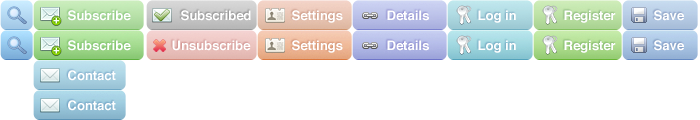
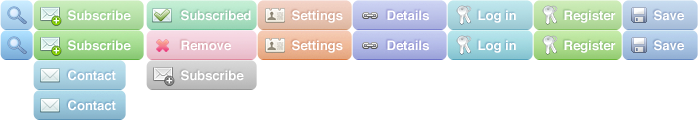
Add alert box JS. Add new unsubscribe button.
git-svn-id: https://stanley.cdf.toronto.edu/svn/csc301-2012-01/Group_E@172 092ab664-fcbf-46e8-8362-05d6c20691bb

Changed region(s): [[0.21, 0.3, 0.39, 0.75], [0.21, 0.025, 0.39, 0.25]]

diff --git a/templates/home.html b/templates/home.html
@@ -15,6 +15,7 @@
         <script src="/js/jquery.tablesorter.min.js" type="text/javascript"></script>
         <script src="/js/jquery.history.js"></script>
         <script src="/js/main.js" type="text/javascript"></script>
+        <script src="/js/alert.js" type="text/javascript"></script>
     </head>
 
     <body>
@@ -37,9 +38,12 @@
                 <form action="/rfp/subscribe" method="post">
                     <!-- keywords get filled out by search script -->
                     <input name="keywords" type="hidden" value="">
-                    <input type="submit" value="" class="button button_subscribe" 
+                    <input type="submit" value="" id="search_subscribe" class="button button_subscribe" 
                         title="Subscribe to email updates for this search query"
                         alt="Subscribe to email updates for this search query" >
+                    <input type="submit" value="" id="search_unsubscribe" class="button button_subscribed" 
+                        title="Unsubscribe from this search query"
+                        alt="Unsubscribe from this search query" >
                 </form>
 
                 <a class="button button_settings"  href="/edit-user" title="Your account settings"
@@ -51,6 +55,17 @@
 
         <!-- Occupies space for header since header's position is fixed -->
         <div class="header_placeholder"></div>
+
+        <!-- Status updates -->
+        <div class="alert alert_info" id="alert_container">
+            <h3 class="title">Success!</h3> 
+            <div class="body">
+                <span class="message">
+                    You've subscribed to &ldquo;<span class="query">toronto</span>&rdquo;. 
+                </span>
+                <a href="#" class="action">Undo?</a>
+            </div>
+        </div>
 
         <!-- Ajax loader -->
         <div id="table_loader"><img src="/images/ajax-loader.gif"></div>

diff --git a/js/main.js b/js/main.js
@@ -1,21 +1,23 @@
 $( function() {
         // DOM elements
-    var rfp_table      = $( '.rfp_table' ),
-        table_body     = rfp_table.find('tbody'),
-        search_text    = $( '#search_text' ),
-        search_form    = $( '#search_form' ),
-        loader         = $( '#table_loader' ),
+    var rfp_table            = $( '.rfp_table' ),
+        table_body           = rfp_table.find('tbody'),
+        search_text          = $( '#search_text' ),
+        search_form          = $( '#search_form' ),
+        search_subscribe     = $( '#search_subscribe' ),
+        search_unsubscribe     = $( '#search_unsubscribe' ),
+        loader               = $( '#table_loader' ),
         // useful variables
-        searching      = false,
-        offset         = 10,
-        order          = '',
-        History        = window.History,
-        timer          = false,
+        searching            = false,
+        offset               = 10,
+        order                = '',
+        History              = window.History,
+        timer                = false,
         // URI
         pagination_comet_uri = '/rfp/list.comet',
-        pagination_html_uri = '/',
+        pagination_html_uri  = '/',
         search_comet_uri     = '/rfp/search.comet/',
-        search_html_uri     = '/rfp/search/',
+        search_html_uri      = '/rfp/search/',
 
     // Create modal dialogues for each RFP's details
     map_links = function( rfp_links ) {
@@ -134,6 +136,15 @@ $( function() {
     History.Adapter.bind(window, 'statechange', function(){ 
         var data = History.getState().data; 
         search_handler( data.search_keywords );
+    });
+
+    // Subscription handler
+    search_subscribe.click( function(e){
+        e.preventDefault();
+
+        search_subscribe.hide();
+        search_unsubscribe.show();
+
     });
 
     // Focus on search field on load

diff --git a/style/main.less b/style/main.less
@@ -128,12 +128,13 @@ a:hover {
 }
 
 .button_subscribed {
-    width: 106px;
+    display: none;
+    width: 112px;
     margin: 0 10px 0 0;
-    background: url(../images/buttons_map.png) -141px 0;
+    background: url(../images/buttons_map.png) -146px 0;
 
     &:hover {
-        background: url(../images/buttons_map.png) -141px -30px;
+        background: url(../images/buttons_map.png) -146px -30px;
     }
 }
 
@@ -347,6 +348,40 @@ input[type=text], input[type=password], select {
         color: #0C7004;
         border-radius: 10px;
     }
+}
+
+.alert {
+    display: none;
+    position: fixed;
+    width: 100%;
+    background: white;
+    padding: 15px 15px;
+    opacity: .9;
+
+    h3, div {
+        display: inline;
+        font-size: 11pt;
+        color: black;
+        text-shadow: 1px 1px 0px white;
+    }
+
+    h3 {
+        font-weight: bold;
+    }
+
+    .query {
+        font-weight: bold;
+    }
+
+    &.alert_info {
+        border-radius: 10px;
+        background: #CDF0BA;
+
+        h3, div {
+            color: #040;
+        }
+    }
+
 }
 
 .login_container, .center_form_container  {

diff --git a/js/alert.js b/js/alert.js
@@ -1,0 +1,37 @@
+// 
+// Class for making pretty alerts
+//
+// Parameters:
+//  title -- title of message
+//  message -- body of the message. Don't make too long.
+//  link -- follow-up actions in the alert, e.g. "undo"
+//
+
+$(function(){
+	var container = $( '#alert_container' ),
+		title = container.find( '.title' ),
+		message = container.find( '.message' ),
+		action = container.find( '.action' ),
+		defaults = { 
+			title: "Success",
+			message: "You've subscribed",
+			action: { text: "Undo", func: null }
+		};
+
+	Alert = function( o ) {
+		o = $.extend( defaults, o );
+
+		title.text( o.title );
+		message.text( o.message );
+		action.text( o.action.text );
+		action.click( o.action.func );
+
+		container.fadeIn( 500 );
+
+		var timer = setTimeout( function(){
+			container.fadeOut(300);
+		}, 1000*3 );
+	};
+
+	window.Alert = Alert;
+});

diff --git a/templates/login.html b/templates/login.html
@@ -5,11 +5,8 @@
     <meta charset="UTF-8">
 
     <link rel="stylesheet/less" type="text/css" href="/style/main.less">
-    <script type="text/javascript" src="../js/user_input.js"></script>
+	<script src="/js/jquery.min.js" type="text/javascript"></script>
     <script src="/js/less-1.3.0.min.js" type="text/javascript"></script>
-    <script type="text/javascript">
-        $( function() { $( '#username' ).focus(); } );
-    </script>
 </head>
 <body>
 

diff --git a/js/user_input.js b/js/user_input.js
@@ -116,6 +116,6 @@ function populatedropdown(monthfield, yearfield, selectedmonth, selectedyear) {
 
 }
 
-$( function () {
+jQuery( function () {
     populatedropdown("monthdropdown", "yeardropdown", "expiry_date_month", "expiry_date_year")
 });
